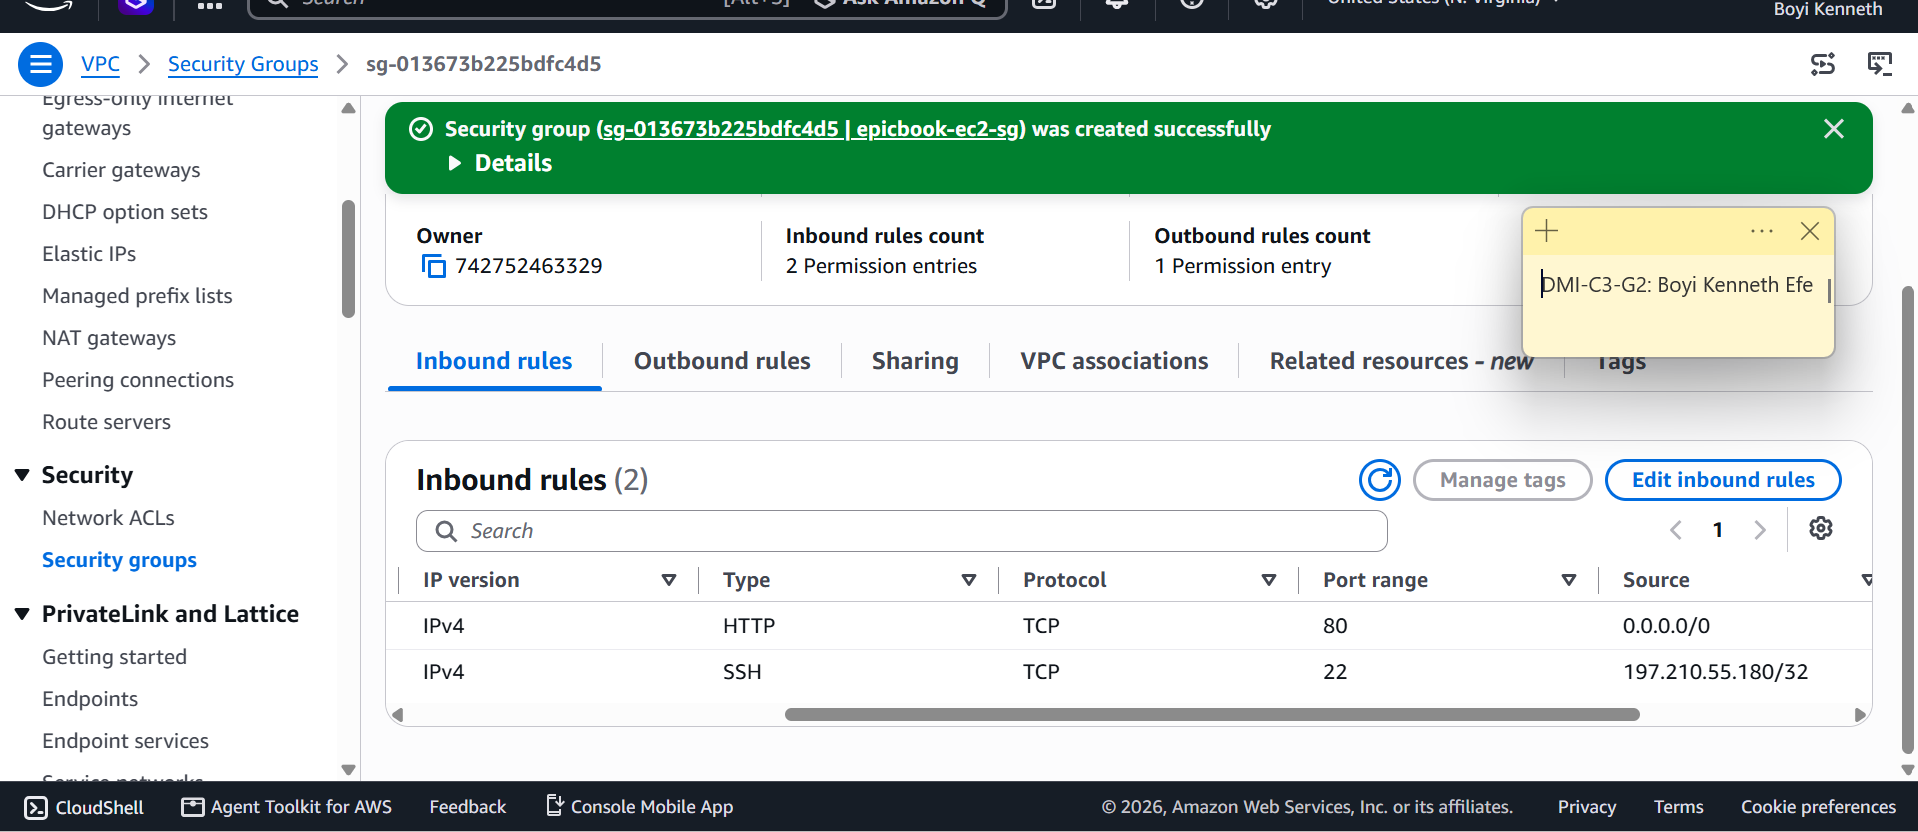
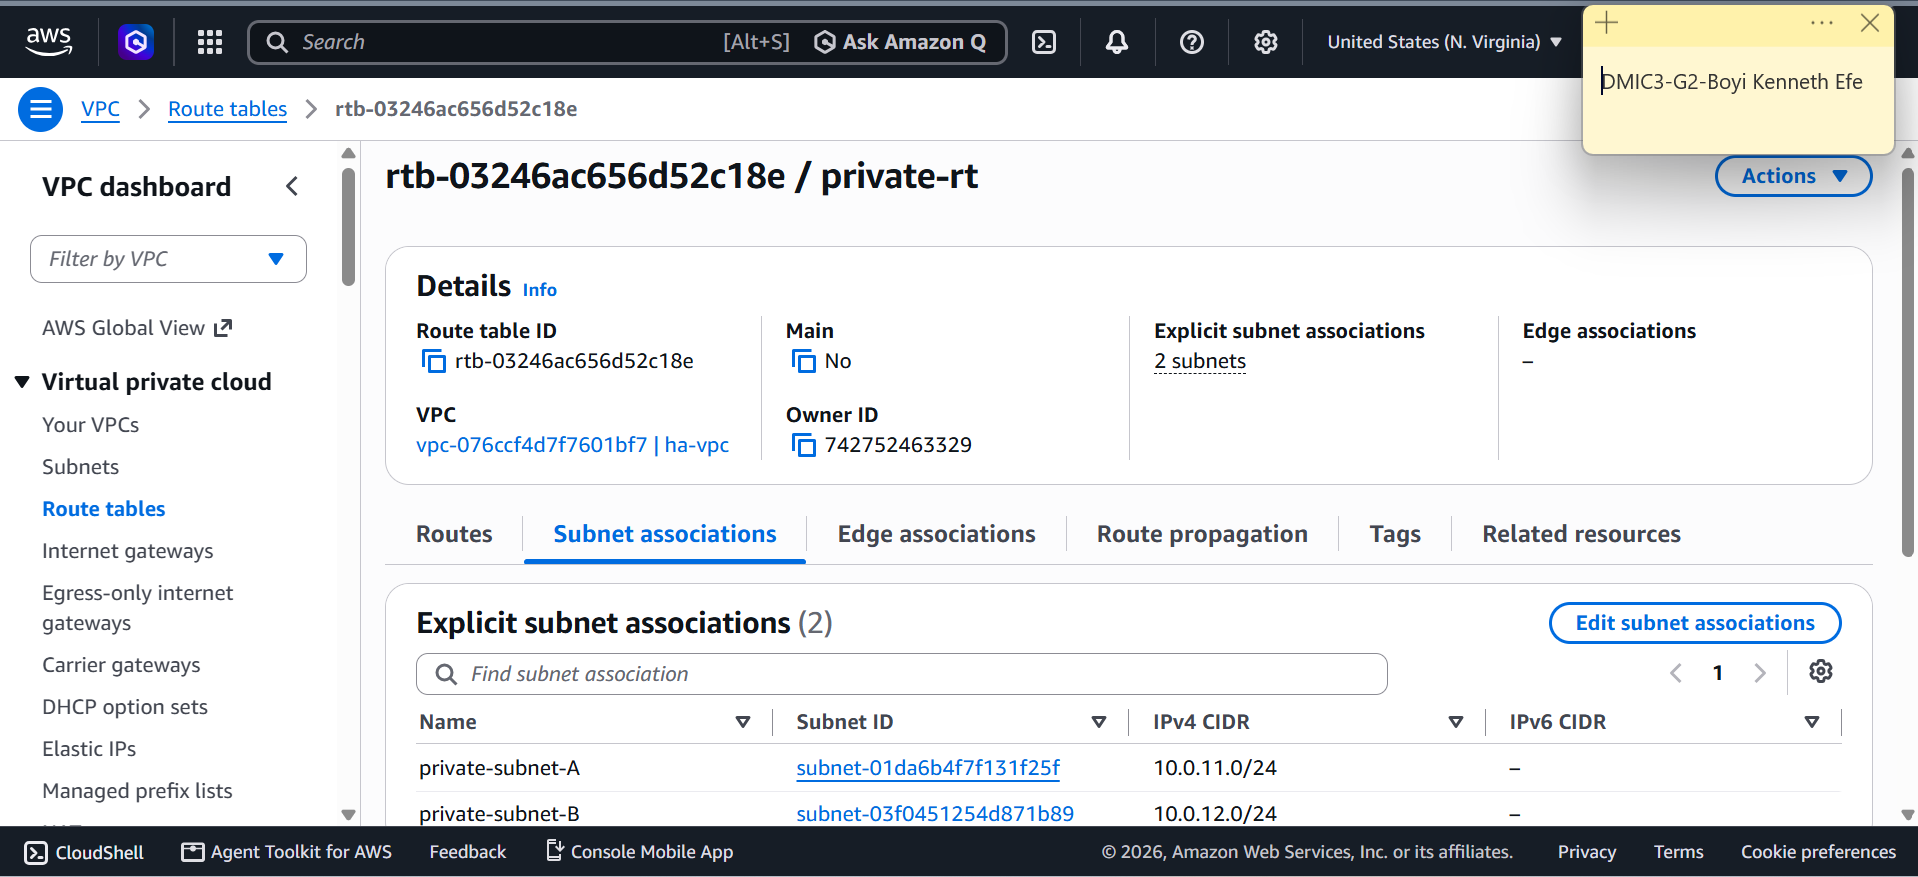
update on assignments

diff --git a/week-00-internet-and-networking/assignment-01-internet-and-networking.md b/week-00-internet-and-networking/assignment-01-internet-and-networking.md
@@ -34,7 +34,8 @@ Replace `task-1-chatgpt.png` with your actual screenshot file name.
 
 ## What I Learned (2–3 lines)
 
-Add your answer here...
+I learned that a networking protocol is a set of rules that devices follow to communicate and exchange data correctly. I also learned that protocols are similar to real-life communication rules because both provide an agreed way for information to be sent, received, and understood.
+
 
 ---
 
@@ -92,7 +93,7 @@ EpicReads bookstore has two application versions:
 
 Save your diagram image in the `screenshots` folder and update the file name below.
 
-![Application Architecture Diagram](screenshots/task-3-diagram.png)
+![Application Architecture Diagram](screenshots/Diagram.jpg)
 
 
 Replace `task-3-diagram.png` with your actual diagram file name.
@@ -103,18 +104,18 @@ Replace `task-3-diagram.png` with your actual diagram file name.
 
 ### Frontend
 
-* Add your answer here...
-* Add your answer here...
+* React
+* HTML/CSS
 
 ### Backend
 
-* Add your answer here...
-* Add your answer here...
+* Node.js
+* Express.js
 
 ### Database
 
-* Add your answer here...
-* Add your answer here...
+* MySQL
+* MangoDB
 
 ---
 
@@ -143,7 +144,7 @@ In **50–100 words**, explain in your own words:
 
 ## Answer
 
-Add your answer here...
+DNS (Domain Name System) translates human-readable domain names into IP addresses that computers use to locate servers on a network. For EpicReads, an A record should be used to point epicreads.com to the IPv4 address 52.172.142.222. The A record is appropriate because the provided address is an IPv4 address. DNS only maps the domain to the IP address; the :3000 port is handled separately by the application or server configuration.
 
 ---
 
@@ -179,7 +180,7 @@ ls
 
 Save your screenshot in the `screenshots` folder and update the file name below.
 
-![VS Code Setup Screenshot](screenshots/task-5-vscode.png)
+![VS Code Setup Screenshot](screenshots/VsCode.png)
 
 
 Replace `task-5-vscode.png` with your actual screenshot file name.
@@ -218,8 +219,8 @@ Add the following credit note at the end of your post:
 
 Paste your LinkedIn post URL here:
 
-```text
-Add your URL here...
+```
+https://www.linkedin.com/posts/kenneth-boyi-6b4a353a6_i-just-completed-a-devops-micro-internship-share-7466360975831490560-doeU/?utm_source=social_share_send&utm_medium=member_desktop_web&rcm=ACoAAGN28KgBcLsxZ_9wccn46X5xb7tSMc1PKWE
 ```
 
 ---
@@ -228,7 +229,26 @@ Add your URL here...
 
 Paste the full text of your LinkedIn post here:
 
-Add your post content here...
+I just Completed a DevOps Micro Internship Assignment!
+
+🤖 ChatGPT
+Learned how to write effective prompts to get clear and simplified explanations of technical concepts.
+
+🌐 Internet & Networking
+Explored how websites are accessed globally using Packet Switching, IP Addresses, TCP/IP, and HTTP/HTTPS.
+
+🏗 App Architecture
+Compared Two-Tier (Frontend + Database) and Three-Tier (Frontend + Backend + Database) architectures, along with common technologies used in each layer.
+
+🌍 DNS
+Learned how DNS translates domain names into IP addresses and why an A Record is used to connect a domain to an IPv4 address.
+
+💻 VS Code Setup
+Configured my development environment in VS Code and verified it using the integrated terminal with a basic command.
+
+A great hands-on exercise that strengthened my understanding of networking, web architecture, DNS, and development tools.
+
+P.S. This post is part of the DevOps Micro Internship (DMI) with Agentic AI — Cohort 3 — by Pravin Mishra. My graded progress is public: https://lnkd.in/efUM_HU2 · Start your DevOps journey: https://lnkd.in/eAY-TBGB
 
 ---
 
@@ -236,19 +256,19 @@ Add your post content here...
 
 ### What did you find easy?
 
-Add your answer here...
+I found the basic concepts of application architecture and DNS relatively easy to understand once they were connected to practical examples. I was also comfortable setting up Visual Studio Code and using its integrated terminal. Using ChatGPT to simplify technical concepts also made it easier to understand unfamiliar networking terminology.
 
 ---
 
 ### What was difficult?
 
-Add your answer here...
+The most difficult part was understanding how the different networking concepts connect together. Packet switching, IP addresses, TCP/IP, HTTP/HTTPS, and DNS are individual concepts, but they all work together when a user accesses a website. Understanding the difference between two-tier and three-tier architecture also required me to think about how each component communicates with the others.
 
 ---
 
 ### What will you improve next week?
 
-Add your answer here...
+Next week, I want to improve my understanding of networking by learning more about how protocols communicate across different layers. I also want to become more comfortable using the terminal and explaining technical concepts in my own words instead of relying on memorized definitions.
 
 ---
 

diff --git a/week-07-azure-cloud/assignment-02-deploy-a-react-app-on-an-azure-vm.md b/week-07-azure-cloud/assignment-02-deploy-a-react-app-on-an-azure-vm.md
@@ -20,7 +20,7 @@ Create the Azure Resource Group `react-app-rg` in a region close to you.
 
 #### Screenshot 1 — Resource Group overview showing the name and region
 
-Add your screenshot here.
+![output ](screenshots/A2Screenshot1.png)
 
 ---
 
@@ -34,13 +34,13 @@ Create an Ubuntu 20.04 LTS VM (size B1s) with a Network Security Group allowing 
 
 #### Screenshot 2 — Azure VM overview page showing the VM name, Resource Group, and region
 
-Add your screenshot here.
+![output ](screenshots/A2Screenshot2.png)
 
 ---
 
 #### Screenshot 3 — Network Security Group inbound rules showing ports 22 and 80 allowed
 
-Add your screenshot here.
+![output ](screenshots/A2Screenshot3.png)
 
 ---
 
@@ -54,7 +54,7 @@ Connect to the VM over SSH and confirm the Linux prompt is visible.
 
 #### Screenshot 4 — Terminal showing a successful SSH login with the prompt visible
 
-Add your screenshot here.
+![output ](screenshots/A2Screenshot4.png)
 
 ---
 
@@ -68,7 +68,7 @@ Update Ubuntu and install Git, Node.js, and npm.
 
 #### Screenshot 5 — Terminal output showing `node -v` and `npm -v`
 
-Add your screenshot here.
+![output ](screenshots/A2Screenshot5.png)
 
 ---
 
@@ -82,7 +82,7 @@ Clone `my-react-app`, install dependencies, and run `npm run build` to produce t
 
 #### Screenshot 6 — Terminal showing successful `npm run build` completion and `ls -la build` output
 
-Add your screenshot here.
+![output ](screenshots/A2Screenshot6.png)
 
 ---
 
@@ -96,13 +96,13 @@ Install Nginx and configure it to serve the `build/` directory with `try_files $
 
 #### Screenshot 7 — Successful `sudo nginx -t` output
 
-Add your screenshot here.
+![output ](screenshots/A2Screenshot7.png)
 
 ---
 
 #### Screenshot 8 — Nginx configuration snippet showing the build root and `try_files` directive
 
-Add your screenshot here.
+![output ](screenshots/A2Screenshot8.png)
 
 ---
 
@@ -116,7 +116,7 @@ Confirm the React app loads through the VM's public IP, navigation works, and a 
 
 #### Screenshot 9 — Browser showing the React app with the public IP visible in the address bar
 
-Add your screenshot here.
+![output ](screenshots/A2Screenshot9.png)
 
 ---
 
@@ -130,7 +130,7 @@ Restrict the SSH Network Security Group rule to your IP if not already restricte
 
 #### Screenshot 10 (optional) — Network Security Group rule showing SSH restricted to your IP
 
-Add your screenshot here.
+![output ](screenshots/A2Screenshot1✅.png)
 
 ---
 
@@ -143,15 +143,15 @@ Add your screenshot here.
 
 # Completion Checklist
 
-- [ ] Task 1: Resource Group created (Screenshot 1)
-- [ ] Task 2: Ubuntu VM provisioned with correct NSG rules (Screenshots 2 & 3)
-- [ ] Task 3: SSH access verified (Screenshot 4)
-- [ ] Task 4: Git, Node.js, and npm installed (Screenshot 5)
-- [ ] Task 5: React app built successfully (Screenshot 6)
-- [ ] Task 6: Nginx configured with SPA routing support (Screenshots 7 & 8)
-- [ ] Task 7: App verified via the VM public IP, including route refresh (Screenshot 9)
-- [ ] Task 8: SSH hardening applied (Screenshot 10, optional)
-- [ ] No sensitive data exposed
+- [✅] Task 1: Resource Group created (Screenshot 1)
+- [✅] Task 2: Ubuntu VM provisioned with correct NSG rules (Screenshots 2 & 3)
+- [✅] Task 3: SSH access verified (Screenshot 4)
+- [✅] Task 4: Git, Node.js, and npm installed (Screenshot 5)
+- [✅] Task 5: React app built successfully (Screenshot 6)
+- [✅] Task 6: Nginx configured with SPA routing support (Screenshots 7 & 8)
+- [✅] Task 7: App verified via the VM public IP, including route refresh (Screenshot 9)
+- [✅] Task 8: SSH hardening applied (Screenshot 10, optional)
+- [✅] No sensitive data exposed
 
 ---
 

diff --git a/README.md b/README.md
@@ -129,7 +129,7 @@ This is not a course. It is an internship-style program — real deployments, re
 
 | Week | Topic | Status | Assignment | LinkedIn Post | Blog Post |
 |------|-------|--------|------------|---------------|-----------|
-| 00 | Internet & Networking Basics | 🔄 In Progress | ⏳ Pending  | https://www.linkedin.com/posts/kenneth-boyi-6b4a353a6_i-just-completed-a-devops-micro-internship-share-7466360975831490560-doeU/?utm_source=social_share_send&utm_medium=member_desktop_web&rcm=ACoAAGN28KgBcLsxZ_9wccn46X5xb7tSMc1PKWE | — |
+| 00 | Internet & Networking Basics | ✅ Completed | ✅ Solved  | https://www.linkedin.com/posts/kenneth-boyi-6b4a353a6_i-just-completed-a-devops-micro-internship-share-7466360975831490560-doeU/?utm_source=social_share_send&utm_medium=member_desktop_web&rcm=ACoAAGN28KgBcLsxZ_9wccn46X5xb7tSMc1PKWE | https://medium.com/@kennethefeboyi14/week-0-building-my-foundations-in-internet-networking-and-devops-8d5680f2c090 |
 | 01 | Success Mindset | ✅ Completed | ✅ Solved | https://www.linkedin.com/posts/kenneth-boyi-6b4a353a6_boyi-20-and-more-upgrades-to-come-the-share-7478604231239823360-3vAY/?utm_source=social_share_send&utm_medium=member_desktop_web&rcm=ACoAAGN28KgBcLsxZ_9wccn46X5xb7tSMc1PKWE | https://medium.com/@kennethefeboyi14/boyi-2-0-and-more-upgrades-to-come-5e20a7fc9d11?sharedUserId=kennethefeboyi14 |
 | 02 | Agentic AI with Claude Code | ✅ Completed | ✅ Solved | https://www.linkedin.com/posts/kenneth-boyi-6b4a353a6_dmibypravinmishra-devops-agenticai-share-7478604231239823360-b-kJ/?utm_source=social_share_send&utm_medium=member_desktop_web&rcm=ACoAAGN28KgBcLsxZ_9wccn46X5xb7tSMc1PKWE | https://medium.com/@kennethefeboyi14/learning-devops-with-agentic-ai-lessons-challenges-and-growth-in-week-2-438285031a44?sharedUserId=kennethefeboyi14 |
 | 03 | Linux & Bash for DevOps | ✅ Completed | ✅ Solved | https://www.linkedin.com/posts/kenneth-boyi-6b4a353a6_devops-aws-linux-share-7483926371497508865-kk2A/?utm_source=social_share_send&utm_medium=member_desktop_web&rcm=ACoAAGN28KgBcLsxZ_9wccn46X5xb7tSMc1PKWE | https://medium.com/@kennethefeboyi14/from-cloud-setup-to-ai-assisted-incident-triage-my-devops-learning-journey-8b5a38c1a6b6?sharedUserId=kennethefeboyi14 |

diff --git a/week-07-azure-cloud/assignment-01-create-and-set-up-your-azure-free-account.md b/week-07-azure-cloud/assignment-01-create-and-set-up-your-azure-free-account.md
@@ -30,13 +30,13 @@ Sign in to the Azure Portal, locate key services (Resource Groups, Virtual Machi
 
 #### Screenshot 1 — Azure Portal homepage after successful login
 
-Add your screenshot here.
+![output ](screenshots/A1Screenshot1.png)
 
 ---
 
 #### Screenshot 2 — "Subscriptions" section showing the "Free Trial" subscription
 
-Add your screenshot here.
+![output ](screenshots/A1Screenshot2.png).
 
 ---
 
@@ -44,7 +44,7 @@ Add your screenshot here.
 
 Write a three-to-four-line paragraph explaining which Azure services you plan to explore first and why.
 
-Write your answer here.
+I plan to explore **Azure Virtual Machines** first because they will help me understand how to deploy and manage applications in the cloud. Next, I want to explore **Azure Storage** to learn how cloud-based data and files are stored. I also plan to explore **Azure Virtual Network** to understand networking and how resources communicate securely. Finally, I want to explore **Azure SQL Database** to learn how managed databases work in the cloud.
 
 ---
 
@@ -57,12 +57,12 @@ Write your answer here.
 
 # Completion Checklist
 
-- [ ] Azure Free Account created with identity, phone, and payment verification completed
-- [ ] Microsoft Agreement and Offer Terms accepted
-- [ ] Azure Portal accessed successfully (Screenshot 1)
-- [ ] Free Trial subscription confirmed (Screenshot 2)
-- [ ] Reflection paragraph written (Notes)
-- [ ] No sensitive information exposed
+- [✅] Azure Free Account created with identity, phone, and payment verification completed
+- [✅] Microsoft Agreement and Offer Terms accepted
+- [✅] Azure Portal accessed successfully (Screenshot 1)
+- [✅] Free Trial subscription confirmed (Screenshot 2)
+- [✅] Reflection paragraph written (Notes)
+- [✅] No sensitive information exposed
 
 ---
 

diff --git a/week-06-aws-cloud/assignment-04-deploy-epicbook-on-ubuntu-vm-and-mysql-rds.md b/week-06-aws-cloud/assignment-04-deploy-epicbook-on-ubuntu-vm-and-mysql-rds.md
@@ -217,16 +217,16 @@ Verify the frontend loads publicly, the backend responds through Nginx, and EC2 
 
 # Completion Checklist
 
-- [ ] Task 1: VPC, public/private subnets, IGW, and public routing created (Screenshots 1–3)
-- [ ] Task 2: Least-privilege EC2 and RDS security groups created (Screenshots 4–5)
-- [ ] Task 3: Ubuntu EC2 launched in the public subnet with SSH verified (Screenshots 6–7)
-- [ ] Task 4: Node.js, npm, Nginx, and MySQL client installed (Screenshots 8–10)
-- [ ] Task 5: Private MySQL RDS created with no public access (Screenshots 11–12)
-- [ ] Task 6: Database initialized from the SQL dump (Screenshot 13)
-- [ ] Task 7: Backend deployed and responding on port 3000 (Screenshots 14–16)
-- [ ] Task 8: Nginx serving the frontend and reverse-proxying to the backend (Screenshots 17–18)
-- [ ] Task 9: Frontend, backend, and RDS verified end to end (Screenshots 19–21)
-- [ ] No sensitive data exposed
+- [✅] Task 1: VPC, public/private subnets, IGW, and public routing created (Screenshots 1–3)
+- [✅] Task 2: Least-privilege EC2 and RDS security groups created (Screenshots 4–5)
+- [✅] Task 3: Ubuntu EC2 launched in the public subnet with SSH verified (Screenshots 6–7)
+- [✅] Task 4: Node.js, npm, Nginx, and MySQL client installed (Screenshots 8–10)
+- [✅] Task 5: Private MySQL RDS created with no public access (Screenshots 11–12)
+- [✅] Task 6: Database initialized from the SQL dump (Screenshot 13)
+- [✅] Task 7: Backend deployed and responding on port 3000 (Screenshots 14–16)
+- [✅] Task 8: Nginx serving the frontend and reverse-proxying to the backend (Screenshots 17–18)
+- [✅] Task 9: Frontend, backend, and RDS verified end to end (Screenshots 19–21)
+- [✅] No sensitive data exposed
 
 ---
 

diff --git a/week-07-azure-cloud/assignment-03-design-a-three-tier-network-with-load-balancer-on-azure.md b/week-07-azure-cloud/assignment-03-design-a-three-tier-network-with-load-balancer-on-azure.md
@@ -20,7 +20,7 @@ Create `eb-demo-vnet` (10.0.0.0/16) with `web-subnet` (10.0.1.0/24), `app-subnet
 
 #### Screenshot 1 — Subnet configuration screen showing the three subnets and Bastion subnet (if enabled)
 
-Add your screenshot here.
+![output ](screenshots/A3Screenshot1.png)
 
 ---
 
@@ -44,7 +44,7 @@ Create Standard Public Load Balancer `web-public-elb` with frontend IP `web-elb-
 
 #### Screenshot 2 — Load Balancer frontend IP configuration
 
-Add your screenshot here.
+![output ](screenshots/A3Screenshot2.png)
 
 ---
 
@@ -58,7 +58,7 @@ Confirm the NGINX default page is reachable through the Load Balancer's public I
 
 #### Screenshot 3 — Browser showing the NGINX welcome page through the Load Balancer Public IP
 
-Add your screenshot here.
+![output ](screenshots/A✅Screenshot3.png)
 
 ---
 
@@ -82,12 +82,12 @@ After capturing all required evidence, delete the `vnet-demo-rg` Resource Group 
 
 # Completion Checklist
 
-- [ ] Task 1: VNet and three subnets created (Screenshot 1)
-- [ ] Task 2: Web VM created and NGINX installed and verified
-- [ ] Task 3: Public Load Balancer configured (Screenshot 2)
-- [ ] Task 4: NGINX reachable through the Load Balancer public IP (Screenshot 3)
-- [ ] Task 5: Resource Group deleted after evidence was captured
-- [ ] No sensitive data exposed
+- [✅] Task 1: VNet and three subnets created (Screenshot 1)
+- [✅] Task 2: Web VM created and NGINX installed and verified
+- [✅] Task 3: Public Load Balancer configured (Screenshot 2)
+- [✅] Task 4: NGINX reachable through the Load Balancer public IP (Screenshot 3)
+- [✅] Task 5: Resource Group deleted after evidence was captured
+- [✅] No sensitive data exposed
 
 ---
 
